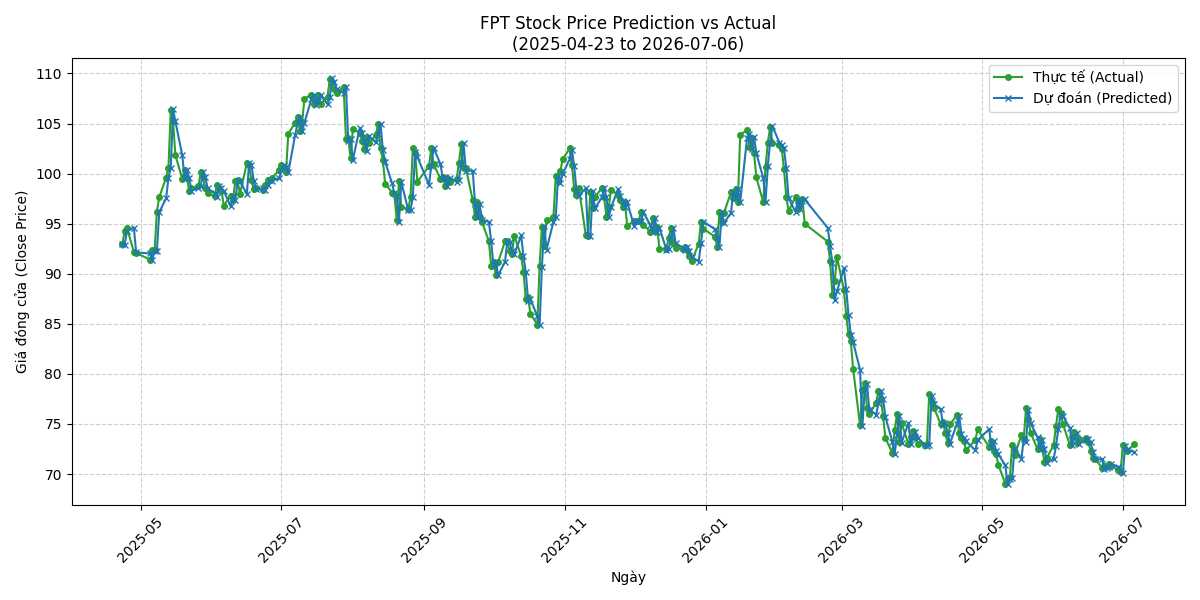
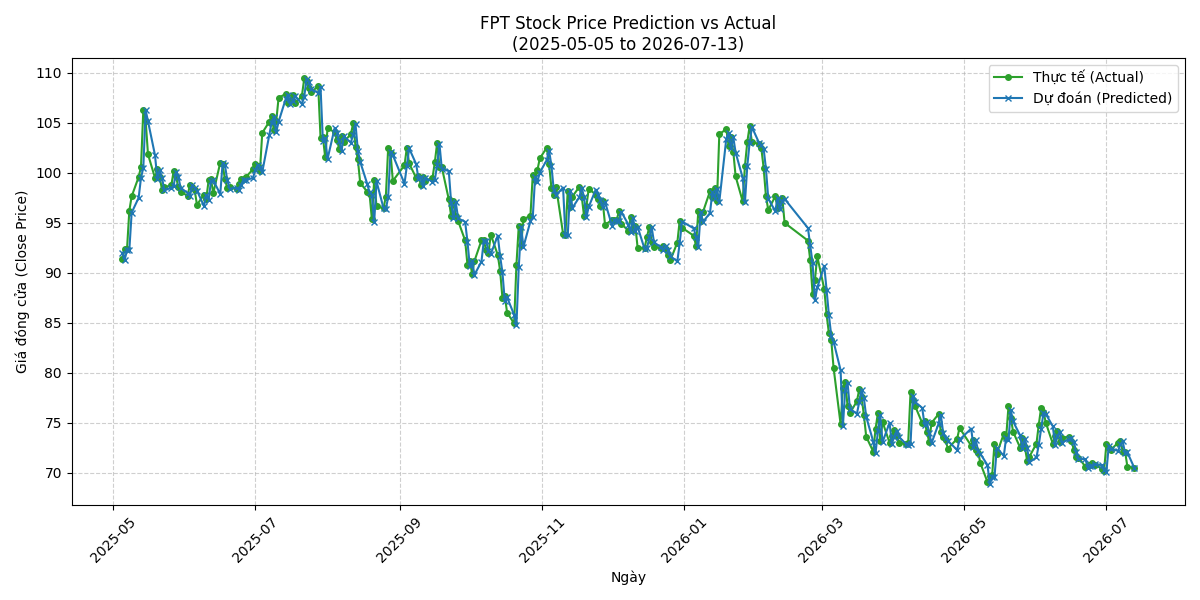
chore: save weekly evaluation reports to output folder

diff --git a/artifacts/raw_fpt_only_residual_cnnlstm_transformer/output/report.md b/artifacts/raw_fpt_only_residual_cnnlstm_transformer/output/report.md
@@ -1,21 +1,21 @@
 Dashboard Đánh Giá Mô Hình FPT
 
-Thời gian đánh giá: 2026-07-06 21:43:25 (Giờ VN)
+Thời gian đánh giá: 2026-07-13 20:40:45 (Giờ VN)
 
 Model Checkpoint: `best_transformer_w3.pt`
 
-Giai đoạn đánh giá: Từ `2025-04-23` đến `2026-07-06` (299 ngày)
+Giai đoạn đánh giá: Từ `2025-05-05` đến `2026-07-13` (299 ngày)
 
 ## 📈 Tổng quan Metrics
 
 | Metric | Giá trị |
 |---|---|
-| **MAE** | `1.3120` |
-| **RMSE** | `1.7444` |
-| **MAPE** | `1.4487` |
-| **R2** | `0.9779` |
-| **BIAS** | `-0.0119` |
-| **DIRECTIONAL_ACCURACY** | `50.8361` |
+| **MAE** | `1.3021` |
+| **RMSE** | `1.7392` |
+| **MAPE** | `1.4404` |
+| **R2** | `0.9789` |
+| **BIAS** | `-0.0666` |
+| **DIRECTIONAL_ACCURACY** | `54.5151` |
 
 Biểu đồ Thực tế vs Dự đoán
 
